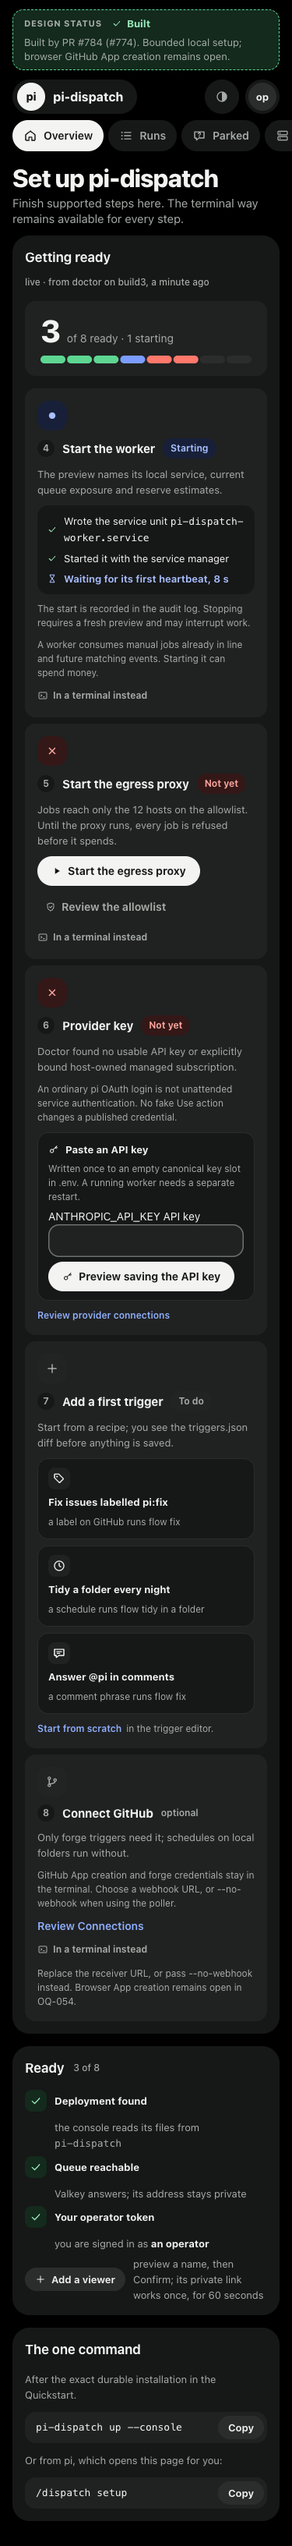
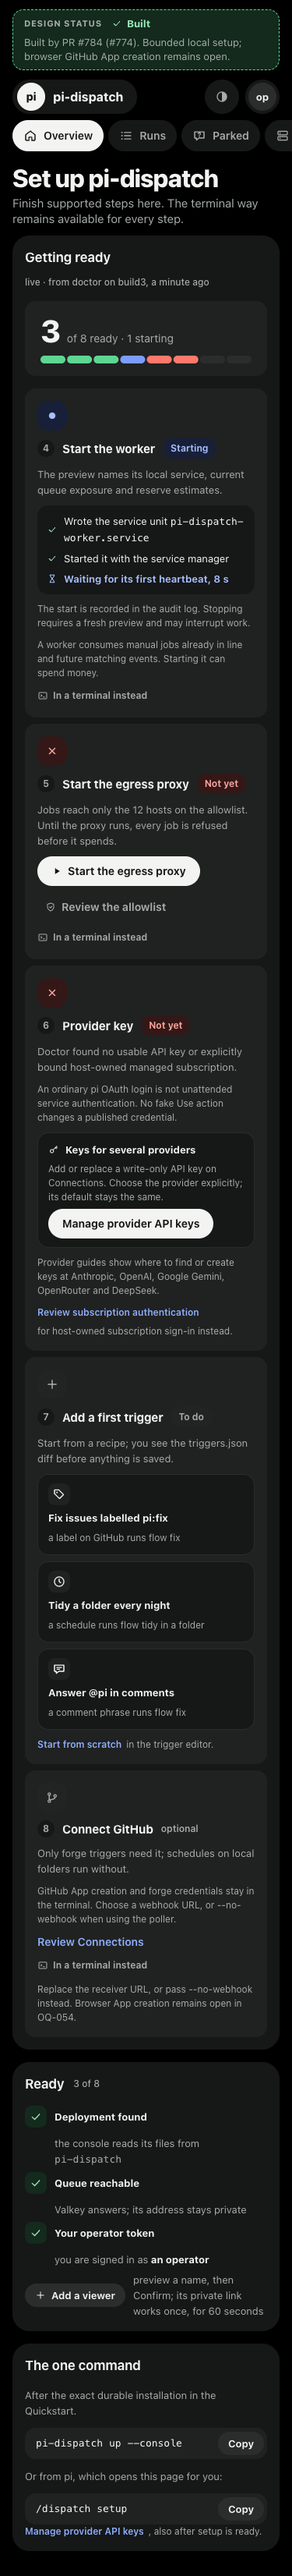
docs(console): refresh setup and provider evidence (#774)

diff --git a/README.md b/README.md
@@ -1,9 +1,21 @@
-# Browser setup evidence for #774
+# Issue #774, final review images
 
-Baseline: `2e5f2fd135ad05a2c2716cfa4882f1c094b5dc6a`, actual authenticated overview before the setup route existed.
+Implementation: `06d3c44f441a11a572794afd56082d41a9b1cc59`, PR #784.
 
-References: repository published-source SetupScreen, loaded through the design harness with tokens.css and bundle.css. Computed tokens, stylesheet rules, document.fonts and CDP platform fonts were verified before capture. The remote Claude artifact was inaccessible; no direct remote comparison is claimed.
+The setup baseline is main `2e5f2fd1`; the provider-management baseline is the prior PR commit `a285e870`.
+After captures use the actual console server and production CSP with pinned Chrome155.0.8059.39. The final browser
+run passed108 role/theme/width checks, six Starting checks and additional configured/expanded-guide captures.
+Phone375, intermediate1024 and desktop1440 captures include both themes and applicable viewer/agent/read-only states.
 
-Implementation source: `a285e870596a4f9f7fb0da43356c82f624ee3dd0` (PR #784). Final captures were refreshed after the last relevant source change. Actual console HTTP/session/action/SSE server under its production CSP. Pinned Chrome for Testing 155.0.8059.39, native system fonts, both themes, phone/intermediate/desktop sizes. Starting captures require the worker Starting chip, blue fourth segment, waiting-heartbeat state and absence of idle Start controls. No private invitation code is published.
+References are the repository's published-source SetupScreen and ConnectionsScreen. The remote Claude artifact was
+inaccessible, so these images do not claim direct remote comparison. All18 reference captures verified both
+`tokens.css` and `bundle.css`, computed theme tokens, font readiness and actual native platform fonts. Source-card
+preview bytes remained unchanged through the final documentation rebuild, and root refreshed the references again.
 
-Curated review images only. Temporary harnesses, full capture matrices and build output remain outside implementation and evidence branches. The implementation PR records the final source commit and verification.
+The sample reference and actual deployment hold different provider/connection observations. Review compares shared
+colours, hierarchy, labels, statuses, controls and complete sections. Expanded API-key and host subscription guides
+show the acquisition workflow. Agent withholding is intentionally neutral; no mutation controls appear for agents,
+viewers or read-only sessions. Actual configured keys are Anthropic, OpenRouter and DeepSeek; saved values never appear.
+
+All26 curated PNGs are listed in `sha256.json`. Private invitation captures, temporary scripts, build output and
+credentials are excluded. These files live on the evidence branch, outside the implementation branch.
